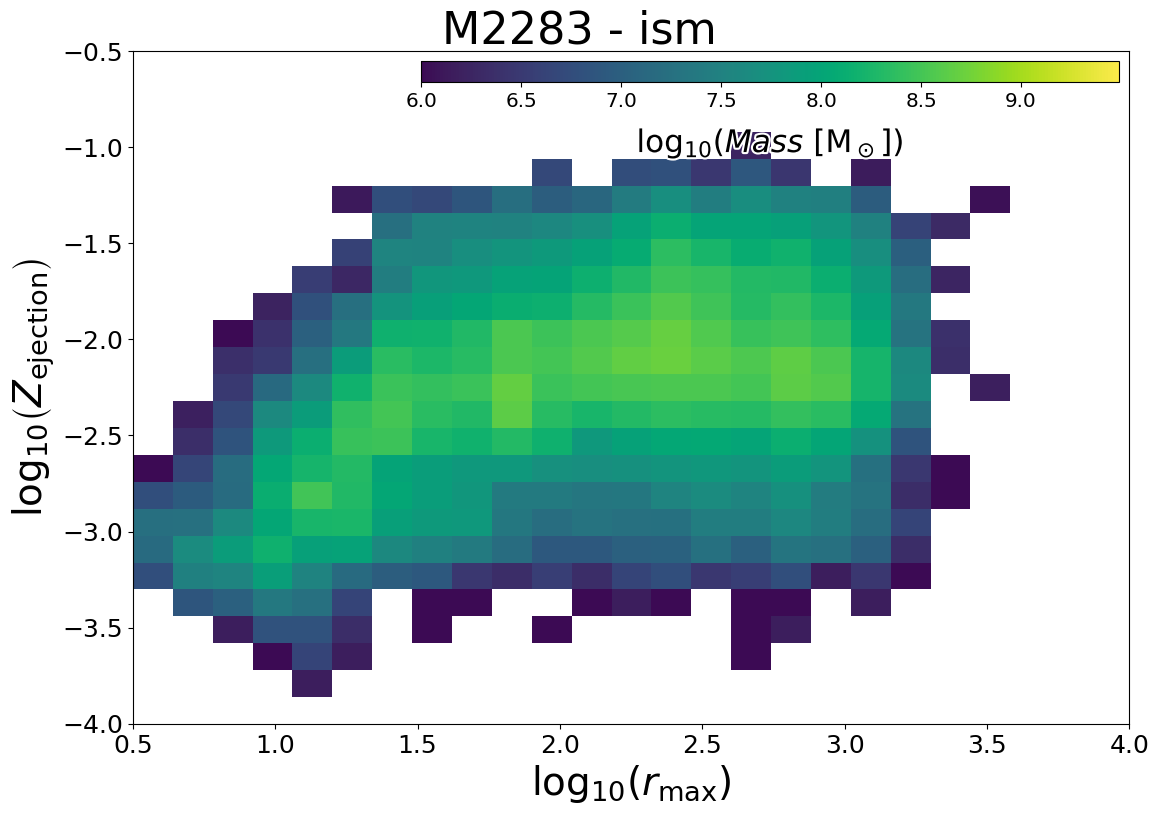
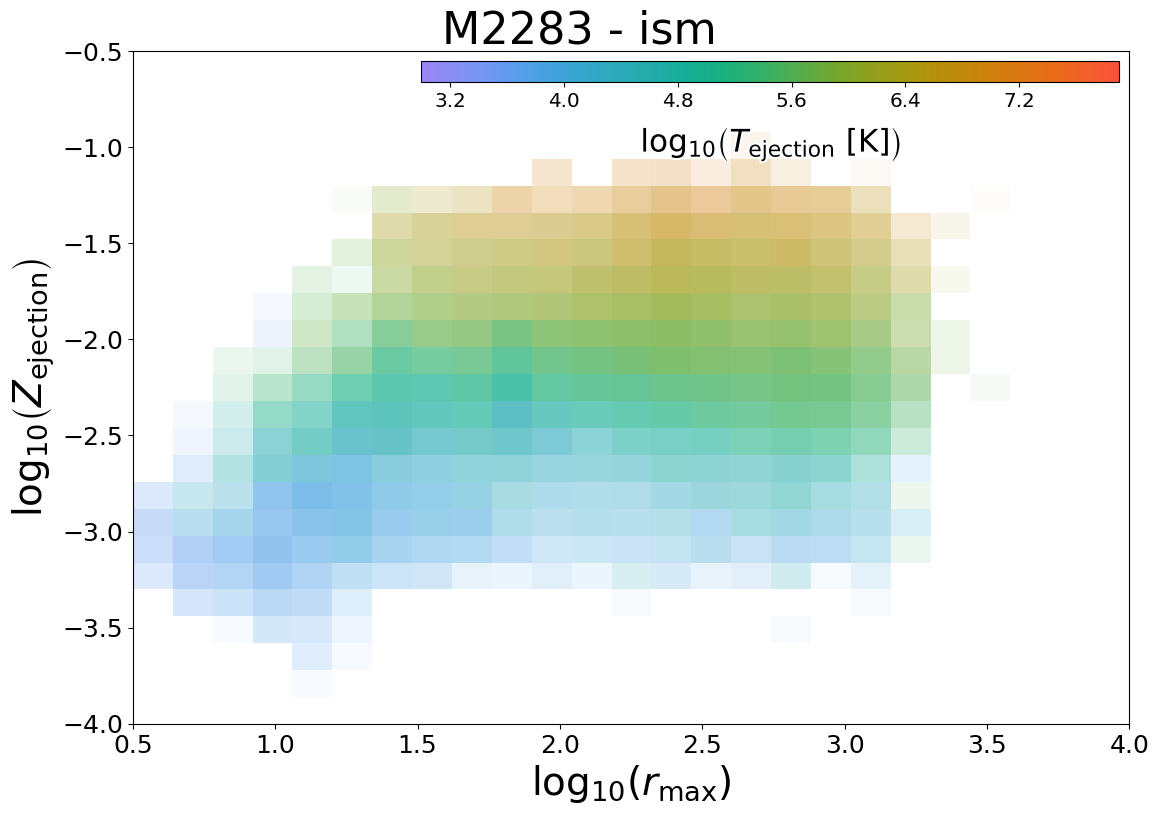
z_ej_vs_r_max colorcode by ejection T

diff --git a/1/z_ej_vs_r_max.py b/1/z_ej_vs_r_max.py
@@ -26,11 +26,12 @@ def plot(args):
 
     f, ax = plt.subplots(1, figsize=utils.figsize[::-1])
     _, _, _, cbar = pg.plotting.scatter_map(np.log10(r_max), np.log10(z_ej),
-        qty=s_m['mass_at_ejection'][mask], logscale=True,
-        extent=[[.5, 4], [-4, -.5]], bins=25, vlim=[10**6, 10**9.49],
+        qty=s_m['mass_at_ejection'][mask], logscale=True, clogscale=True,
+        colors=s_m['T_at_ejection'][mask], colors_av=s_m['mass_at_ejection'][mask],
+        extent=[[.5, 4], [-4, -.5]], bins=25, vlim=[10**6, 10**9.49], clim=[1e3, 10**7.9],
         ax=ax, zero_is_white=True)
     cbar_ax = cbar.ax
-    cbar_ax.set_xlabel(r'$\log_{10}\left( Mass\ \mathrm{[M_\odot]} \right)$', fontsize=utils.axes_labelsize*.8)
+    cbar_ax.set_xlabel(r'$\log_{10}\left( T_\mathrm{ejection}\ \mathrm{[K]} \right)$', fontsize=utils.axes_labelsize*.8)
     plt.setp(cbar_ax.get_xticklabels(), fontsize=utils.tick_labelsize*.8)
     text = cbar_ax.xaxis.get_label().set_path_effects([path_effects.Stroke(linewidth=3, foreground='white'), path_effects.Normal()])
     cbar_ax.xaxis.set_label(text)
